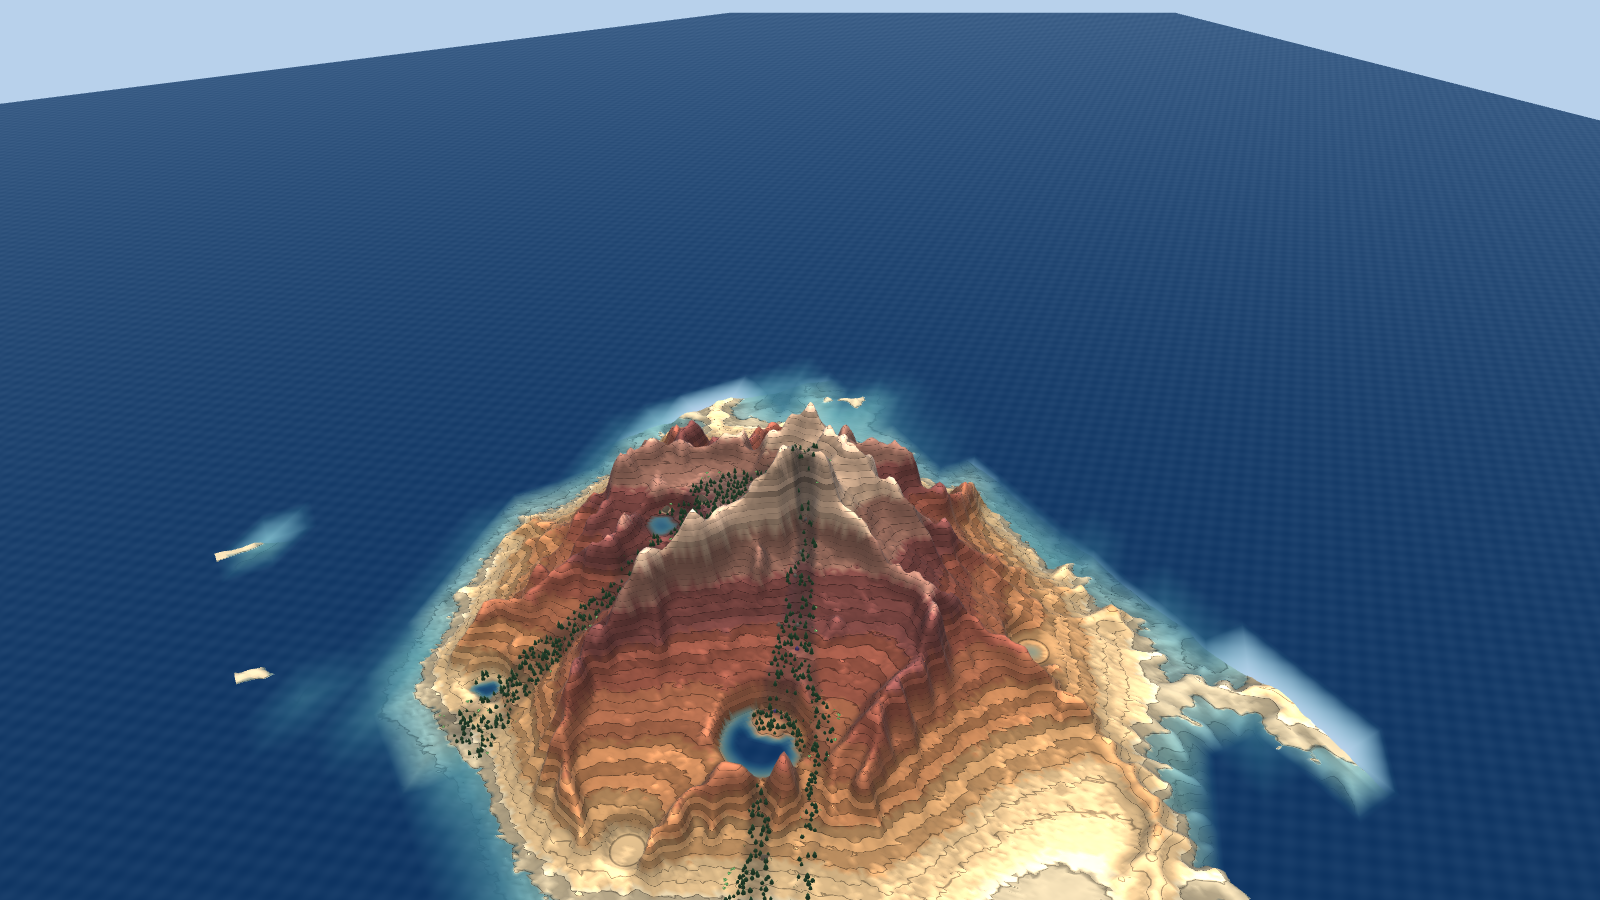
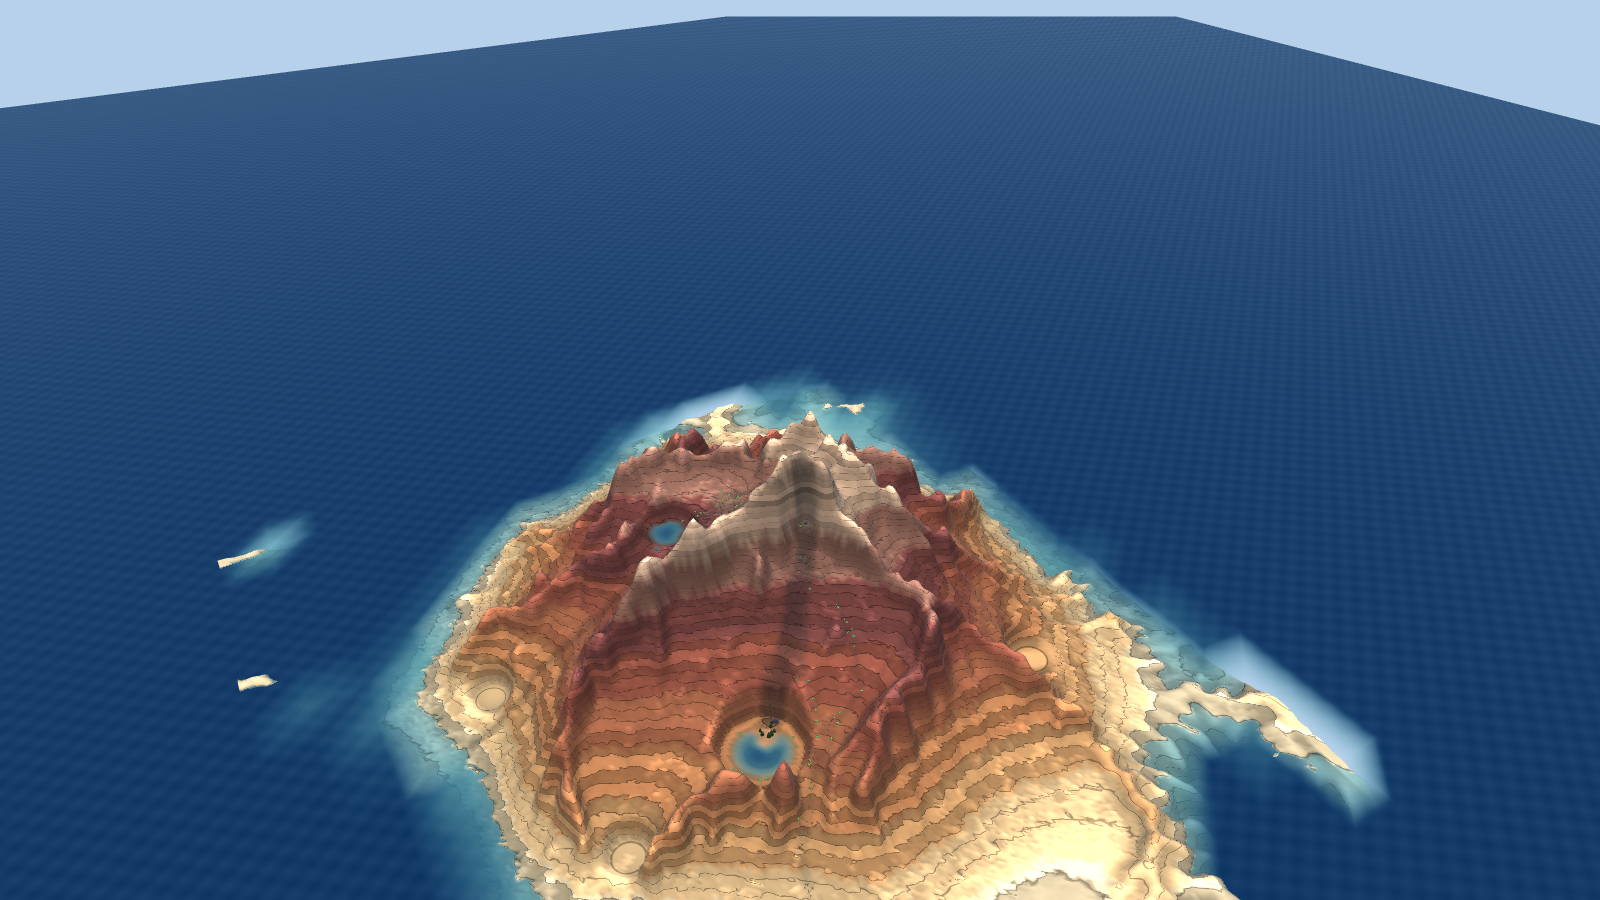
fix(world): lakes grow a shoreline instead of drowning the forest unseen
Reported: 'the trees are gone'. Forensics on the real save found where they
went: 128 living cells in the whole world, every single one at tier 6.0, and
every single one under the brim-full North basin — indices match the standing
water exactly. The old moisture rule counted submerged cells as maximally wet,
so all growth concentrated in the basin; RebuildInstances rightly refuses to
draw props underwater; and the basin filling to the brim (almanac: runs 169,
173, 176) sank the mountain's entire visible forest in one evening. Land life
elsewhere had starved at 0.012/run as WetDecayPerRun dried the channels.

Two changes. Cells under more than 0.25 m of standing water now lose life
rather than growing it — a filled tarn drowns what grew in it. And cells
ADJACENT to standing water count as fully moist and take the lake growth
bonus, so the drowned forest's growth goes to a ring of reeds and trees at
the waterline: the thing a player who filled a basin can actually see.

Measured at 24 runs, same seed: visible props UP (moss 110→120, reeds
103→109, conifers 7→7) while living cells fall 1,496→1,338 — the drowned,
invisible cells are dying and the shore is taking their place.
docs/shots/mountain_24_life.png shows the ring: a conifer stand and reeds on
the lake edge. On the damaged save the shoreline regrows from the next run —
moss in ~2 runs, trees in ~11; the sunken tier-6 grove is left to drown
honestly.
[…]

diff --git a/Assets/Scripts/World/EcosystemSystem.cs b/Assets/Scripts/World/EcosystemSystem.cs
@@ -111,23 +111,50 @@ namespace Rill.World
             int n = _f.Size;
             LifeTier before = _highestSeen;
 
-            for (int i = 0; i < _f.Count; i++)
+            for (int z = 0; z < n; z++)
             {
-                float moisture = Mathf.Max(_f.Wet[i], Mathf.Clamp01(_f.Water[i] * 2f));
-                float h = _f.Height[i];
-                if (h <= _f.SeaLevel) { _life[i] = 0f; continue; }
+                for (int x = 0; x < n; x++)
+                {
+                    int i = z * n + x;
+                    float h = _f.Height[i];
+                    if (h <= _f.SeaLevel) { _life[i] = 0f; continue; }
 
-                if (moisture >= cfg.LifeMoistureThreshold)
-                {
-                    // Growth accelerates near standing water and slows at altitude: the valley
-                    // greens first, exactly as the player expects, without being told.
-                    float altitudeFactor = Mathf.Clamp01(1f - h / Mathf.Max(cfg.PeakHeight, 1f) * 0.85f);
-                    float lakeBonus = _f.Water[i] > 0.05f ? 1.7f : 1f;
-                    _life[i] = Mathf.Min(6f, _life[i] + GrowthPerRun * moisture * altitudeFactor * lakeBonus);
-                }
-                else
-                {
-                    _life[i] = Mathf.Max(0f, _life[i] - DecayPerRun);
+                    // A filled basin drowns what grew in it. The old rule was the opposite — cells
+                    // under a lake counted as maximally moist and grew to tier 6 — but RebuildInstances
+                    // rightly refuses to draw props underwater, so a basin campaign ended with the
+                    // mountain's entire visible forest sunk out of sight: observed on a real save,
+                    // 128 living cells, every one of them under the brim-full North basin, and not a
+                    // tree on screen anywhere. Reported as "the trees are gone", which it was.
+                    float standing = _f.Water[i];
+                    if (standing > 0.25f)
+                    {
+                        _life[i] = Mathf.Max(0f, _life[i] - GrowthPerRun);
+                        continue;
+                    }
+
+                    float moisture = Mathf.Max(_f.Wet[i], Mathf.Clamp01(standing * 2f));
+
+                    // The shore drinks from the lake. This is where the drowned forest's growth
+                    // goes instead: a ring of reeds and trees at the waterline, which is the thing
+                    // a player who filled a basin can actually see.
+                    bool shore = (x > 0 && _f.Water[i - 1] > 0.1f)
+                              || (x < n - 1 && _f.Water[i + 1] > 0.1f)
+                              || (z > 0 && _f.Water[i - n] > 0.1f)
+                              || (z < n - 1 && _f.Water[i + n] > 0.1f);
+                    if (shore) moisture = 1f;
+
+                    if (moisture >= cfg.LifeMoistureThreshold)
+                    {
+                        // Growth accelerates near standing water and slows at altitude: the valley
+                        // greens first, exactly as the player expects, without being told.
+                        float altitudeFactor = Mathf.Clamp01(1f - h / Mathf.Max(cfg.PeakHeight, 1f) * 0.85f);
+                        float lakeBonus = (shore || standing > 0.05f) ? 1.7f : 1f;
+                        _life[i] = Mathf.Min(6f, _life[i] + GrowthPerRun * moisture * altitudeFactor * lakeBonus);
+                    }
+                    else
+                    {
+                        _life[i] = Mathf.Max(0f, _life[i] - DecayPerRun);
+                    }
                 }
             }
 
